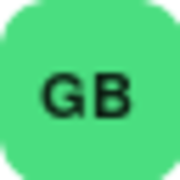
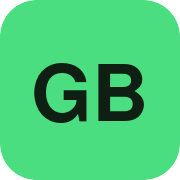
Match Scoring feature

diff --git a/src/routes/__root.tsx b/src/routes/__root.tsx
@@ -92,10 +92,10 @@ export const Route = createRootRouteWithContext<{ queryClient: QueryClient }>()(
       { name: "twitter:image", content: "https://pub-bb2e103a32db4e198524a2e9ed8f35b4.r2.dev/8bee6680-9518-4611-88e8-ad651670a130/id-preview-a5108356--72920ab1-64f0-4a04-a6e6-628a335ada58.lovable.app-1779783257235.png" },
     ],
     links: [
-      { rel: "icon", href: "/favicon.ico", sizes: "any" },
-      { rel: "icon", href: "/favicon.svg", type: "image/svg+xml" },
-      { rel: "icon", href: "/favicon.png", type: "image/png", sizes: "32x32" },
-      { rel: "apple-touch-icon", href: "/apple-touch-icon.png", sizes: "180x180" },
+      { rel: "icon", href: "/favicon.svg?v=6", type: "image/svg+xml" },
+      { rel: "icon", href: "/favicon.ico?v=6", sizes: "any" },
+      { rel: "icon", href: "/favicon.png?v=6", type: "image/png", sizes: "32x32" },
+      { rel: "apple-touch-icon", href: "/apple-touch-icon.png?v=6", sizes: "180x180" },
       { rel: "preconnect", href: "https://fonts.googleapis.com" },
       { rel: "preconnect", href: "https://fonts.gstatic.com", crossOrigin: "anonymous" },
       { rel: "stylesheet", href: "https://fonts.googleapis.com/css2?family=Inter:wght@400;500;600;700&family=Space+Grotesk:wght@500;600;700&display=swap" },
